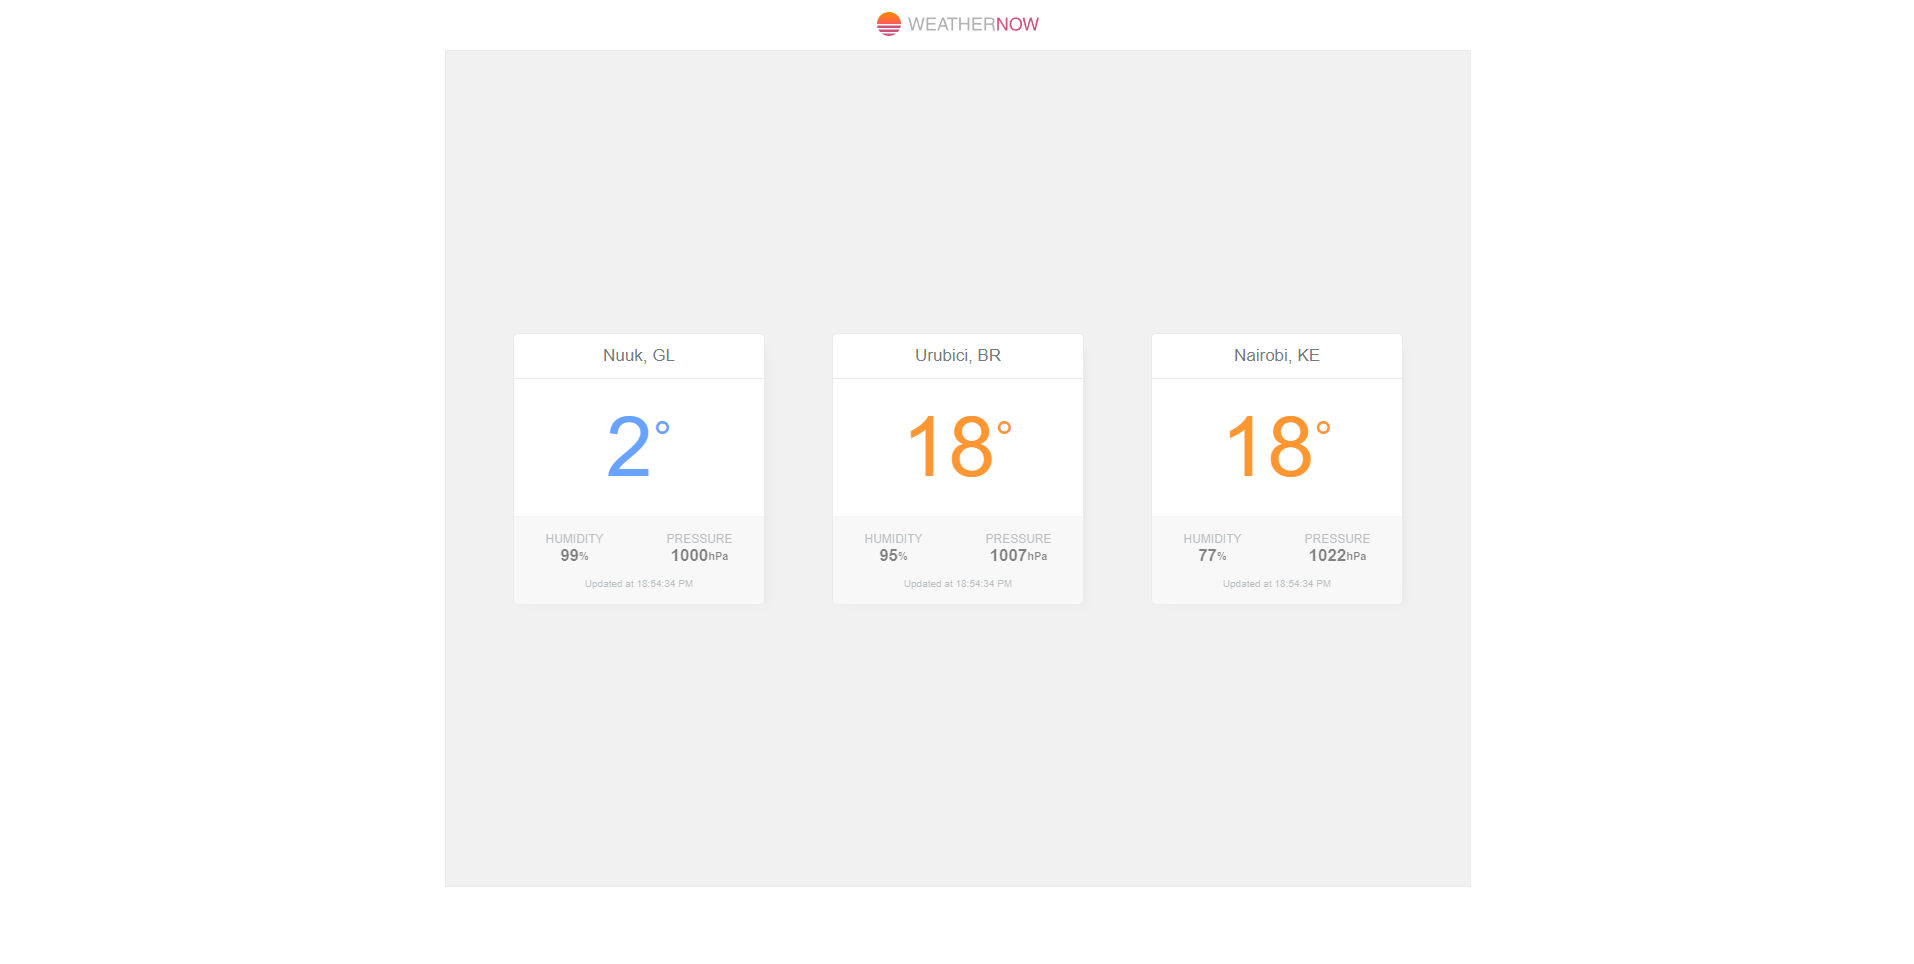
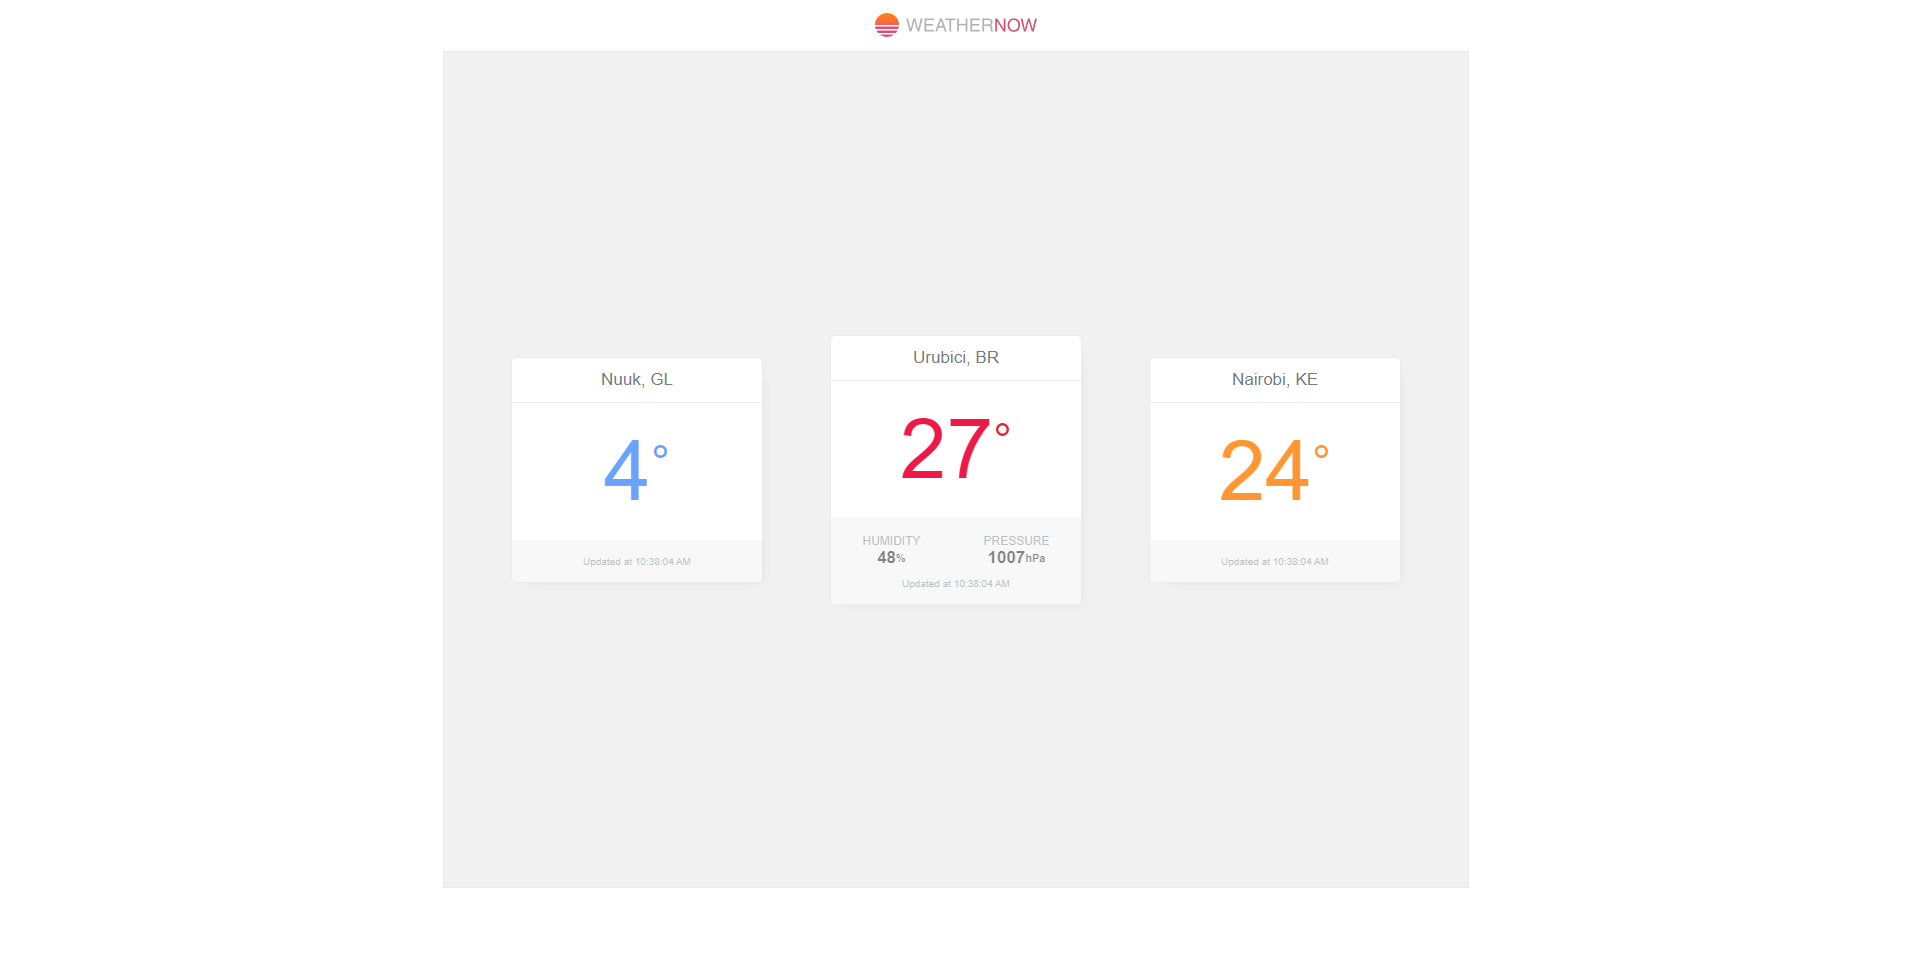
Últimos detalhes finalizados

diff --git a/src/components/CityCard.vue b/src/components/CityCard.vue
@@ -1,69 +1,66 @@
 <template>
-  <div class="CityCard" >
-    <div
-      @mouseover="mouseover(cityInfo?.id)"
-      @mouseleave="mouseleave(cityInfo?.id)"
-    >
-      <div class="city-header">
-        {{ cityName }}
+  <div class="CityCard" :class="{ 'force-hover': forceHover }">
+    <div class="city-header">
+      {{ cityName }}
+    </div>
+
+    <div v-if="loading">
+      <img
+        class="city-loader"
+        alt="weathernow loader"
+        src="../assets/loader.svg"
+        height="50"
+      />
+    </div>
+
+    <div v-else-if="cityInfo?.main?.temp">
+      <div
+        class="city-temperature"
+        :style="`color: ${temperatureColor(cityInfo.main?.temp)}`"
+      >
+        {{ convertKelvinToCelsius(cityInfo.main?.temp) }}
+        <div class="degrees">°</div>
       </div>
 
-      <div v-if="loading">
-        <img
-          class="city-loader"
-          alt="weathernow loader"
-          src="../assets/loader.svg"
-          height="50"
-        />
-      </div>
-
-      <div v-else-if="cityInfo?.main?.temp">
-        <div
-          class="city-temperature"
-          :style="`color: ${temperatureColor(cityInfo.main?.temp)}`"
-        >
-          {{ convertKelvinToCelsius(cityInfo.main?.temp) }}
-          <div class="degrees">°</div>
-        </div>
-
-        <div class="city-footer">
-          <div class="city-humidity">
-            <div>HUMIDITY</div>
-            <div class="humidity-value">
-              {{ cityInfo.main?.humidity }}
-              <span class="abb">%</span>
-            </div>
-          </div>
-          <div class="city-pressure">
-            <div>PRESSURE</div>
-            <div class="pressure-value">
-              {{ cityInfo.main?.pressure }}
-              <label class="abb">hPa</label>
-            </div>
-          </div>
-          <div class="city-date">
-            {{ formatDate() }}
+      <div class="city-footer">
+        <div class="city-humidity">
+          <div>HUMIDITY</div>
+          <div class="humidity-value">
+            {{ cityInfo.main?.humidity }}
+            <span class="abb">%</span>
           </div>
         </div>
+        <div class="city-pressure">
+          <div>PRESSURE</div>
+          <div class="pressure-value">
+            {{ cityInfo.main?.pressure }}
+            <label class="abb">hPa</label>
+          </div>
+        </div>
+        <div class="city-date">
+          {{ formatDate(updatedAt || cityInfo.dt) }}
+        </div>
       </div>
+    </div>
 
-      <div v-else class="city-error">
-        <label class="error-message">Something went wrong</label>
-        <button @click="tryAgain(cityName)" class="error-button">
-          Try Again
-        </button>
-      </div>
+    <div v-else class="city-error">
+      <label class="error-message">Something went wrong</label>
+      <button @click="tryAgain(cityName)" class="error-button">
+        Try Again
+      </button>
     </div>
   </div>
 </template>
 
 <script>
 export default {
-  emits: ["fetchCity", "fetchCities"],
+  emits: ["fetchCity"],
   props: {
     cityInfo: Object,
-    loading: Object,
     cityName: String,
+    loading: Boolean,
+    forceHover: Boolean,
+    updatedAt: Number,
   },
 
   data: () => {
@@ -95,8 +92,9 @@ export default {
       return time;
     },
 
-    formatDate() {
-      var date = new Date();
+    formatDate(timestamp) {
+      let date = new Date(null);
+      date.setSeconds(timestamp);
       const hours = this.formatTime(date.getHours());
       const minutes = this.formatTime(date.getMinutes());
       const seconds = this.formatTime(date.getSeconds());
@@ -108,34 +106,6 @@ export default {
 
     tryAgain(cityName) {
       this.$emit("fetchCity", cityName);
-    },
-
-    fetchCities() {
-      setTimeout(() => {
-        localStorage.removeItem("cities");
-        localStorage.setItem("cities", JSON.stringify(this.citiesInfo));
-        this.$emit("fetchCities", true);
-      }, 10000 * 60);
-    },
-
-    mouseover(cityId) {
-      Object.keys(this.hover).map((key) => {
-        if (this.hover[key]) {
-          this.hover[key] = false;
-        }
-      });
-      this.hover[cityId] = true;
-    },
-
-    mouseleave(cityId) {
-      this.hover[cityId] = true;
-    },
-  },
-
-  watch: {
-    cityInfo() {
-      console.log(123);
-      this.fetchCities();
     },
   },
 };
@@ -197,6 +167,13 @@ export default {
 .CityCard:hover .city-footer .city-humidity,
 .CityCard:hover .city-footer .city-pressure {
   display: block;
+  padding-bottom: 10px;
+}
+
+.CityCard.force-hover .city-footer .city-humidity,
+.CityCard.force-hover .city-footer .city-pressure {
+  display: block;
+  padding-bottom: 10px;
 }
 
 .CityCard .city-footer .humidity-value,
@@ -245,11 +222,10 @@ export default {
 
   .CityCard .city-footer {
     border-top: 1px solid #ebebeb;
-    min-height: 75px;
     background: #f1f1f1;
     opacity: 50%;
     display: grid;
-    grid-template-rows: 45px auto auto 20px auto;
+
     font-size: 12px;
     padding-top: 15px;
   }

diff --git a/src/views/Home.vue b/src/views/Home.vue
@@ -15,6 +15,8 @@
         :cityInfo="cityData"
         :cityName="cities[index]"
         :loading="loading[index]"
+        :forceHover="index === 1"
+        :updatedAt="updatedAt"
         v-on:fetchCity="fetchByCity($event, index)"
       />
     </div>
@@ -32,6 +34,7 @@ export default {
       cities: ["Nuuk, GL", "Urubici, BR", "Nairobi, KE"],
       promises: [],
       loading: {},
+      updatedAt: null,
     };
   },
 
@@ -40,12 +43,19 @@ export default {
   },
 
   created() {
-    this.loadCitiesData();
     this.updateEachTenMinutes();
+    const cities = window.localStorage.getItem("cities");
+
+    if (!cities) {
+      this.loadCitiesData();
+    } else {
+      this.getLocalStorageData(cities);
+    }
   },
 
   methods: {
     fetch(city) {
+      this.updatedAt = new Date().getTime() / 1000;
       return fetch(
         `https://api.openweathermap.org/data/2.5/weather?q=${city}&appid=${this.appid}`
       ).then((response) => response.json());
@@ -58,7 +68,12 @@ export default {
       });
 
       this.citiesInfo = await Promise.all(this.promises);
+
       this.cities.forEach((item, index) => {
+        if (this.citiesInfo[index].cod === 200) {
+          console.log(this.citiesInfo[index]);
+          this.setLocalStorageData();
+        }
         this.loading[index] = false;
       });
     },
@@ -66,13 +81,38 @@ export default {
     async fetchByCity(city, index) {
       this.loading[index] = true;
       const cityData = await this.fetch(city);
+      if (this.cityData?.cod === 200) {
+        this.updatedLocalStorageData(cityData, index);
+      }
       this.citiesInfo[index] = cityData;
       this.loading[index] = false;
     },
 
     updateEachTenMinutes() {
-      const tenMinutes = 60000;
-      window.setInterval(this.loadCitiesData, tenMinutes);
+      const tenMinutes = 600000;
+      window.setInterval(() => {
+        this.loadCitiesData();
+
+        let requestError = this.citiesInfo.find((city) => city.cod !== 200);
+        if (!requestError) {
+          this.setLocalStorageData();
+        }
+      }, tenMinutes);
+    },
+
+    getLocalStorageData(cities) {
+      this.citiesInfo = JSON.parse(cities);
+    },
+
+    setLocalStorageData() {
+      window.localStorage.setItem("cities", JSON.stringify(this.citiesInfo));
+    },
+
+    updatedLocalStorageData(cityData, index) {
+      const cities = window.localStorage.getItem("cities");
+      const parsedData = JSON.parse(cities);
+      parsedData[index] = cityData;
+      window.localStorage.setItem("cities", JSON.stringify(parsedData));
     },
   },
 };

diff --git a/README.md b/README.md
@@ -5,6 +5,10 @@ A aplicação exibe a temperatura atual de Nuuk/GL, Urubici/BR e Nairobi/KE, ass
 
 ![](/src/assets/home.png)
 
+## API
+
+https://openweathermap.org/
+
 ## Configuração de desenvolvimento
 
 ```sh
